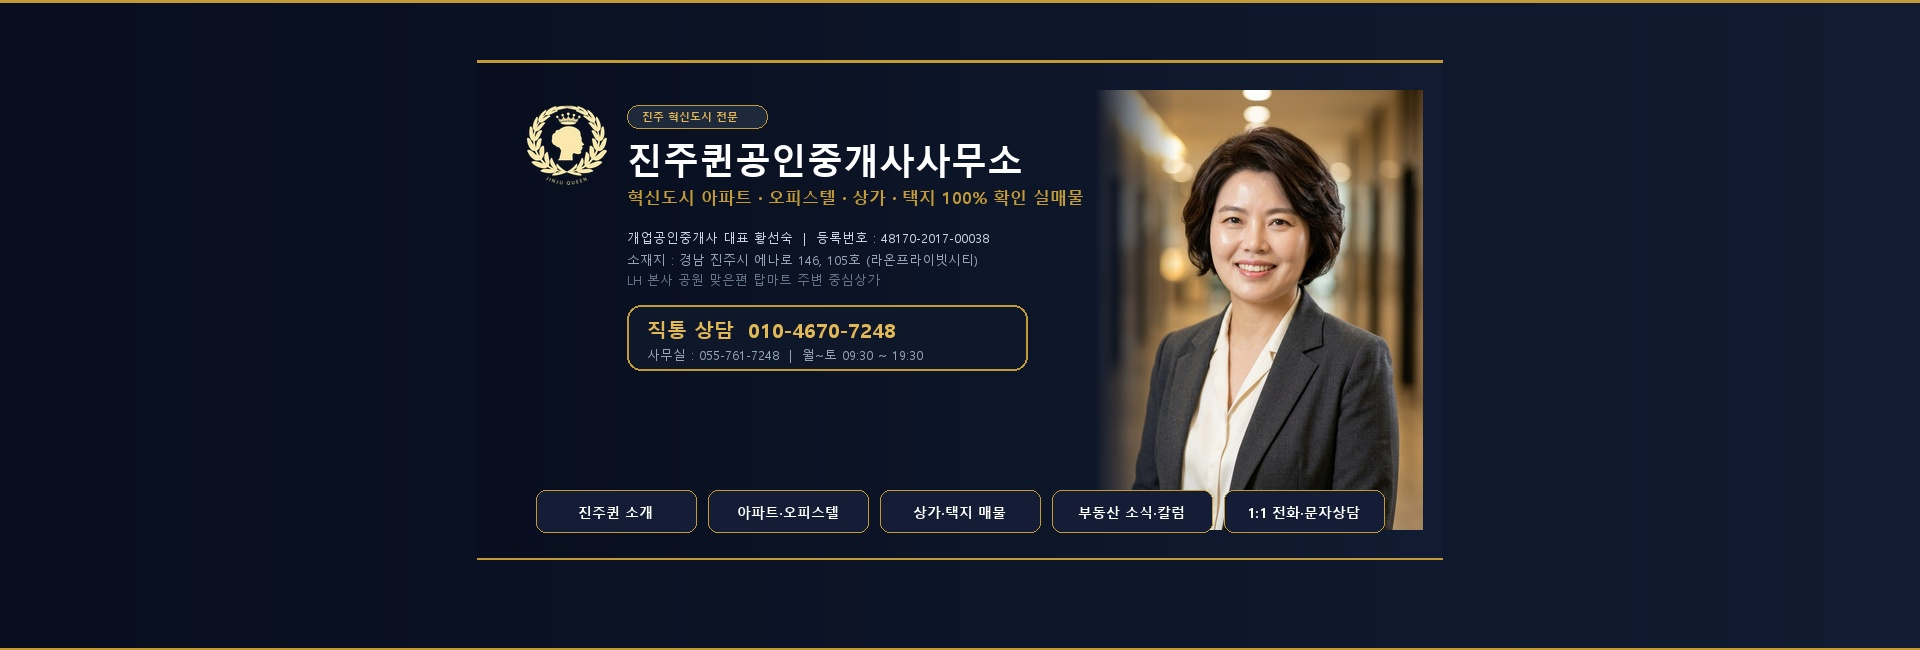
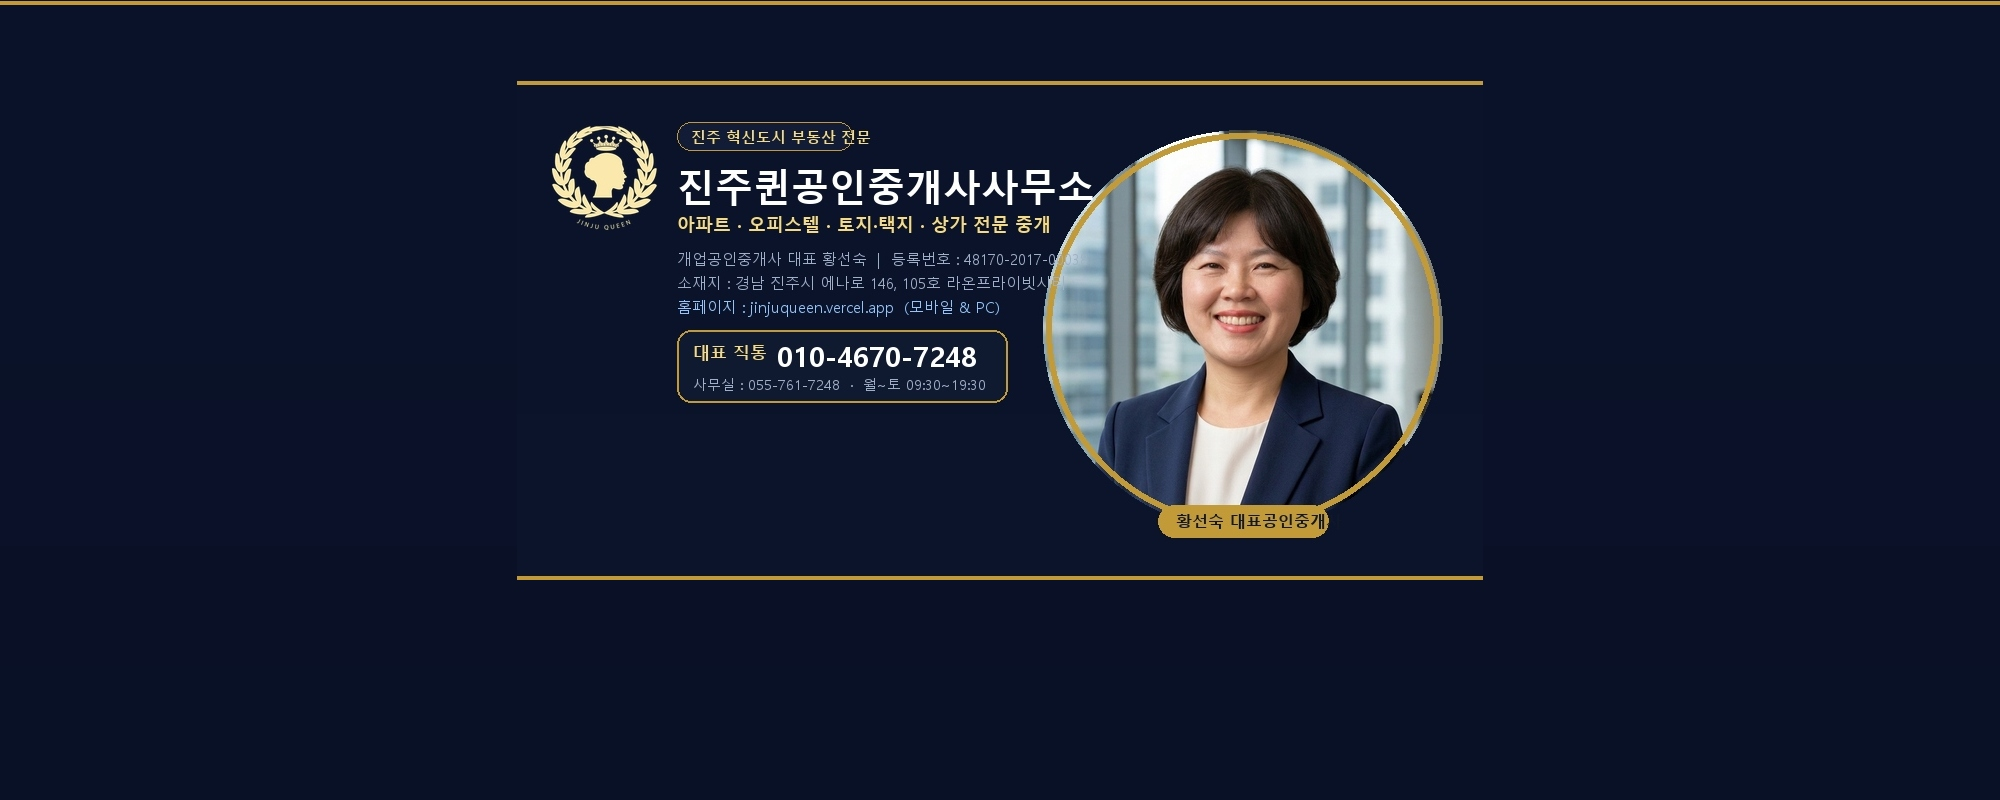
feat(media): 네이버 블로그 타이틀·와이드스킨 및 유튜브 채널아트 배너 최신 홈페이지 기준 일치 업데이트 & 모바일 블로그·유튜브 바로가기 완벽 탑재

diff --git a/mobile.html b/mobile.html
@@ -185,6 +185,24 @@
         통화연결 &rarr;
       </a>
     </div>
+
+    <!-- Official Media Channels (Naver Blog & YouTube) -->
+    <div class="grid grid-cols-2 gap-2 mt-2.5">
+      <a href="https://blog.naver.com/property70" target="_blank" rel="noopener noreferrer" class="bg-slate-800/90 hover:bg-slate-800 border border-emerald-500/40 rounded-xl px-3 py-2 flex items-center justify-between transition touch-press">
+        <div class="flex items-center gap-1.5">
+          <span class="w-4 h-4 rounded bg-emerald-600 text-white font-black text-[9px] flex items-center justify-center">N</span>
+          <span class="text-xs font-bold text-emerald-300">공식 네이버블로그</span>
+        </div>
+        <i data-lucide="chevron-right" class="w-3.5 h-3.5 text-slate-400"></i>
+      </a>
+      <a href="https://www.youtube.com/@jinju_queen" target="_blank" rel="noopener noreferrer" class="bg-slate-800/90 hover:bg-slate-800 border border-rose-500/40 rounded-xl px-3 py-2 flex items-center justify-between transition touch-press">
+        <div class="flex items-center gap-1.5">
+          <span class="w-4 h-4 rounded bg-rose-600 text-white font-bold text-[9px] flex items-center justify-center">▶</span>
+          <span class="text-xs font-bold text-rose-300">공식 유튜브채널</span>
+        </div>
+        <i data-lucide="chevron-right" class="w-3.5 h-3.5 text-slate-400"></i>
+      </a>
+    </div>
   </section>
 
   <!-- 4. Quick Category Filter Tabs (Horizontal Scroll) -->
@@ -257,10 +275,14 @@
         <span class="w-2 h-4 bg-emerald-600 rounded-full"></span>
         <h2 class="text-base font-black text-slate-900">부동산 분석 & 알림</h2>
       </div>
-      <a href="https://blog.naver.com/property70" target="_blank" rel="noopener noreferrer" class="text-[11px] font-bold text-emerald-700 flex items-center gap-0.5">
-        <span>블로그 방문</span>
-        <i data-lucide="external-link" class="w-3 h-3"></i>
-      </a>
+      <div class="flex items-center gap-1.5">
+        <a href="https://blog.naver.com/property70" target="_blank" rel="noopener noreferrer" class="text-[10px] font-bold text-emerald-700 bg-emerald-50 border border-emerald-200 px-2 py-0.5 rounded-md flex items-center gap-1">
+          <span class="w-1.5 h-1.5 rounded-full bg-emerald-500"></span> N 블로그
+        </a>
+        <a href="https://www.youtube.com/@jinju_queen" target="_blank" rel="noopener noreferrer" class="text-[10px] font-bold text-rose-700 bg-rose-50 border border-rose-200 px-2 py-0.5 rounded-md flex items-center gap-1">
+          <span class="w-1.5 h-1.5 rounded-full bg-rose-500"></span> ▶ 유튜브
+        </a>
+      </div>
     </div>
 
     <div id="mobileBoardList" class="space-y-2">
@@ -335,6 +357,15 @@
       <p><strong>등록번호 :</strong> 48170-2017-00038 | <strong>사업자등록 :</strong> 630-14-00632</p>
       <p><strong>소재지 :</strong> 경상남도 진주시 에나로 146, 105호 (라온프라이빗시티)</p>
       <p><strong>대표전화 :</strong> 055-761-7248 | <strong>직통 :</strong> 010-4670-7248</p>
+    </div>
+
+    <div class="pt-2 flex items-center gap-2">
+      <a href="https://blog.naver.com/property70" target="_blank" rel="noopener noreferrer" class="flex-1 py-1.5 px-2 bg-emerald-950/80 text-emerald-300 border border-emerald-800/80 rounded-lg text-center font-bold text-[10px] flex items-center justify-center gap-1">
+        <span class="w-1.5 h-1.5 rounded-full bg-emerald-400"></span> N 네이버 블로그
+      </a>
+      <a href="https://www.youtube.com/@jinju_queen" target="_blank" rel="noopener noreferrer" class="flex-1 py-1.5 px-2 bg-rose-950/80 text-rose-300 border border-rose-800/80 rounded-lg text-center font-bold text-[10px] flex items-center justify-center gap-1">
+        <span class="w-1.5 h-1.5 rounded-full bg-rose-500"></span> ▶ 유튜브 채널
+      </a>
     </div>
 
     <div class="pt-3 border-t border-slate-800 flex items-center justify-between text-[10px] text-slate-500">

diff --git a/update_blog_youtube_assets.py b/update_blog_youtube_assets.py
@@ -1,0 +1,269 @@
+import os
+from PIL import Image, ImageDraw, ImageFont
+
+ARTIFACT_DIR = r"C:\Users\User\.gemini\antigravity\brain\22ad999b-b105-4739-9ac9-9c3b7b7fc818"
+IMAGES_DIR = "images"
+
+FONT_BD = "C:/Windows/Fonts/malgunbd.ttf"
+FONT_REG = "C:/Windows/Fonts/malgun.ttf"
+
+# Colors
+NAVY_DEEP = (11, 19, 43)       # #0B132B
+NAVY_CARD = (18, 28, 54)
+GOLD_RICH = (194, 155, 56)      # #C29B38
+GOLD_LIGHT = (245, 218, 128)
+EMERALD = (13, 148, 136)        # #0D9488
+EMERALD_LIGHT = (209, 250, 229)
+WHITE = (255, 255, 255)
+SLATE_MUTED = (160, 175, 200)
+
+def generate_naver_blog_title():
+    """Naver Blog Title Banner (966 x 500) with updated branding & no forbidden phrases"""
+    bw, bh = 966, 500
+    banner = Image.new('RGB', (bw, bh), NAVY_DEEP)
+    draw = ImageDraw.Draw(banner)
+
+    # Ambient subtle gradient background
+    for y in range(bh):
+        blend = y / bh
+        r = int(NAVY_DEEP[0] * (1 - blend * 0.3) + 16 * (blend * 0.3))
+        g = int(NAVY_DEEP[1] * (1 - blend * 0.3) + 24 * (blend * 0.3))
+        b = int(NAVY_DEEP[2] * (1 - blend * 0.3) + 48 * (blend * 0.3))
+        draw.line([(0, y), (bw, y)], fill=(r, g, b))
+
+    # Top & bottom gold accent lines
+    draw.line([(0, 2), (bw, 2)], fill=GOLD_RICH, width=4)
+    draw.line([(0, bh - 3), (bw, bh - 3)], fill=GOLD_RICH, width=4)
+
+    # 1. Representative Portrait on the right
+    ceo_path = os.path.join(IMAGES_DIR, "ceo-square.jpg")
+    if os.path.exists(ceo_path):
+        ceo_im = Image.open(ceo_path).convert('RGB')
+        # Circular framed portrait with gold border
+        c_size = 400
+        ceo_resized = ceo_im.resize((c_size, c_size), Image.Resampling.LANCZOS)
+        
+        # Circle mask
+        mask = Image.new('L', (c_size, c_size), 0)
+        mdraw = ImageDraw.Draw(mask)
+        mdraw.ellipse((0, 0, c_size - 1, c_size - 1), fill=255)
+        
+        # Gold ring around avatar
+        ring_im = Image.new('RGBA', (c_size, c_size), (0, 0, 0, 0))
+        rdraw = ImageDraw.Draw(ring_im)
+        rdraw.ellipse((3, 3, c_size - 4, c_size - 4), outline=GOLD_RICH, width=6)
+        
+        cx = bw - c_size - 40
+        cy = (bh - c_size) // 2
+        banner.paste(ceo_resized, (cx, cy), mask)
+        banner.paste(ring_im, (cx, cy), ring_im)
+
+        # Name tag below portrait
+        f_name_tag = ImageFont.truetype(FONT_BD, 16)
+        tag_w = 170
+        tag_h = 32
+        tag_x = cx + (c_size - tag_w) // 2
+        tag_y = cy + c_size - 25
+        draw.rounded_rectangle([tag_x, tag_y, tag_x + tag_w, tag_y + tag_h], radius=16, fill=GOLD_RICH)
+        draw.text((tag_x + 18, tag_y + 4), "황선숙 대표공인중개사", font=f_name_tag, fill=(15, 23, 42))
+
+    # 2. Golden Logo on the left
+    logo_path = os.path.join(IMAGES_DIR, "logo.png")
+    if os.path.exists(logo_path):
+        logo_im = Image.open(logo_path).convert('RGBA')
+        logo_s = 105
+        logo_resized = logo_im.resize((logo_s, logo_s), Image.Resampling.LANCZOS)
+        banner.paste(logo_resized, (35, 45), logo_resized)
+
+    # 3. Typography & Information
+    f_badge = ImageFont.truetype(FONT_BD, 15)
+    f_title = ImageFont.truetype(FONT_BD, 38)
+    f_sub = ImageFont.truetype(FONT_BD, 18)
+    f_info = ImageFont.truetype(FONT_REG, 15)
+    f_phone_lbl = ImageFont.truetype(FONT_BD, 17)
+    f_phone_main = ImageFont.truetype(FONT_BD, 28)
+    f_phone_sub = ImageFont.truetype(FONT_REG, 14)
+
+    tx = 160
+    ty = 42
+
+    # Top Pill Badge
+    draw.rounded_rectangle([tx, ty, tx + 175, ty + 28], radius=14, fill=NAVY_CARD, outline=GOLD_RICH, width=1)
+    draw.text((tx + 14, ty + 4), "진주 혁신도시 부동산 전문", font=f_badge, fill=GOLD_LIGHT)
+
+    # Title
+    ty += 38
+    draw.text((tx, ty), "진주퀸공인중개사사무소", font=f_title, fill=WHITE)
+
+    # Subtitle (strictly compliant, NO '확인 실매물')
+    ty += 52
+    draw.text((tx, ty), "아파트 · 오피스텔 · 토지·택지 · 상가 전문 중개", font=f_sub, fill=GOLD_LIGHT)
+
+    # Office Info
+    ty += 36
+    draw.text((tx, ty), "개업공인중개사 대표 황선숙  |  등록번호 : 48170-2017-00038", font=f_info, fill=SLATE_MUTED)
+    ty += 24
+    draw.text((tx, ty), "소재지 : 경남 진주시 에나로 146, 105호 라온프라이빗시티", font=f_info, fill=SLATE_MUTED)
+    ty += 24
+    draw.text((tx, ty), "홈페이지 : jinjuqueen.vercel.app  (모바일 & PC)", font=f_info, fill=(147, 197, 253))
+
+    # Contact Cards Box
+    ty += 34
+    draw.rounded_rectangle([tx, ty, tx + 330, ty + 72], radius=14, fill=(15, 25, 48), outline=GOLD_RICH, width=2)
+    draw.text((tx + 16, ty + 10), "대표 직통", font=f_phone_lbl, fill=GOLD_LIGHT)
+    draw.text((tx + 100, ty + 6), "010-4670-7248", font=f_phone_main, fill=WHITE)
+    draw.text((tx + 16, ty + 44), "사무실 : 055-761-7248  ·  월~토 09:30~19:30", font=f_phone_sub, fill=SLATE_MUTED)
+
+    out_file = os.path.join(IMAGES_DIR, "naver-blog-title-966.jpg")
+    banner.save(out_file, "JPEG", quality=98)
+    banner.save(os.path.join(ARTIFACT_DIR, "naver-blog-title-966.jpg"), "JPEG", quality=98)
+    print("Naver Blog Title Banner generated:", out_file)
+
+
+def generate_youtube_banner():
+    """YouTube Channel Art (2560 x 1440) matching website baseline & YouTube dark theme"""
+    W, H = 2560, 1440
+    safe_w, safe_h = 1546, 423
+    safe_x1 = (W - safe_w) // 2   # 507
+    safe_y1 = (H - safe_h) // 2   # 508
+    safe_x2 = safe_x1 + safe_w    # 2053
+    safe_y2 = safe_y1 + safe_h    # 931
+
+    YT_BG = (15, 15, 15)
+    img = Image.new('RGB', (W, H), YT_BG)
+    draw = ImageDraw.Draw(img)
+
+    # Ambient deep navy / gold glow in the center safe zone
+    overlay = Image.new('RGBA', (W, H), (0, 0, 0, 0))
+    odraw = ImageDraw.Draw(overlay)
+    for x in range(safe_x1 - 150, safe_x2 + 150):
+        rel = (x - safe_x1) / safe_w
+        factor = 1.0 - abs(rel - 0.5) * 1.8
+        factor = max(0.0, min(1.0, factor))
+        alpha = int(75 * factor)
+        odraw.line([(x, safe_y1 - 60), (x, safe_y2 + 60)], fill=(11, 23, 50, alpha))
+
+    img = Image.alpha_composite(img.convert('RGBA'), overlay).convert('RGB')
+    draw = ImageDraw.Draw(img)
+
+    # Top & bottom gold hairline borders inside safe zone
+    draw.line([(safe_x1 + 40, safe_y1 + 10), (safe_x2 - 40, safe_y1 + 10)], fill=GOLD_RICH, width=2)
+    draw.line([(safe_x1 + 40, safe_y2 - 10), (safe_x2 - 40, safe_y2 - 10)], fill=GOLD_RICH, width=2)
+
+    # 1. Left side: Golden Logo
+    logo_path = os.path.join(IMAGES_DIR, "logo.png")
+    logo_size = 220
+    logo_x = safe_x1 + 80
+    logo_y = safe_y1 + (safe_h - logo_size) // 2
+    if os.path.exists(logo_path):
+        logo_im = Image.open(logo_path).convert('RGBA')
+        logo_r = logo_im.resize((logo_size, logo_size), Image.Resampling.LANCZOS)
+        img.paste(logo_r, (logo_x, logo_y), logo_r)
+
+    # 2. Right side: Representative Portrait inside stylish circle
+    ceo_path = os.path.join(IMAGES_DIR, "ceo-square.jpg")
+    c_size = 280
+    cx = safe_x2 - c_size - 80
+    cy = safe_y1 + (safe_h - c_size) // 2
+    if os.path.exists(ceo_path):
+        ceo_im = Image.open(ceo_path).convert('RGB')
+        ceo_r = ceo_im.resize((c_size, c_size), Image.Resampling.LANCZOS)
+        mask = Image.new('L', (c_size, c_size), 0)
+        mdraw = ImageDraw.Draw(mask)
+        mdraw.ellipse((0, 0, c_size - 1, c_size - 1), fill=255)
+        
+        ring = Image.new('RGBA', (c_size, c_size), (0, 0, 0, 0))
+        rdraw = ImageDraw.Draw(ring)
+        rdraw.ellipse((3, 3, c_size - 4, c_size - 4), outline=GOLD_RICH, width=5)
+        
+        img.paste(ceo_r, (cx, cy), mask)
+        img.paste(ring, (cx, cy), ring)
+
+        # Name tag below
+        f_tag = ImageFont.truetype(FONT_BD, 18)
+        tag_w = 170
+        tag_h = 32
+        tag_x = cx + (c_size - tag_w) // 2
+        tag_y = cy + c_size - 16
+        draw.rounded_rectangle([tag_x, tag_y, tag_x + tag_w, tag_y + tag_h], radius=16, fill=GOLD_RICH)
+        draw.text((tag_x + 18, tag_y + 4), "황선숙 대표공인중개사", font=f_tag, fill=(15, 23, 42))
+
+    # 3. Center Content
+    content_x = logo_x + logo_size + 60
+    f_title = ImageFont.truetype(FONT_BD, 68)
+    f_sub = ImageFont.truetype(FONT_BD, 28)
+    f_info = ImageFont.truetype(FONT_REG, 20)
+    f_btn_lbl = ImageFont.truetype(FONT_BD, 22)
+    f_btn_num = ImageFont.truetype(FONT_BD, 34)
+
+    # Main Channel Title
+    title_y = safe_y1 + 45
+    draw.text((content_x, title_y), "진주퀸공인중개사", font=f_title, fill=WHITE)
+    
+    # Subtitle
+    sub_y = title_y + 88
+    draw.text((content_x, sub_y), "진주 혁신도시 아파트 · 상가 · 오피스텔 · 토지 전문", font=f_sub, fill=GOLD_LIGHT)
+
+    # Info Line
+    info_y = sub_y + 45
+    draw.text((content_x, info_y), "충무공동 라온프라이빗시티 105호  |  홈페이지 : jinjuqueen.vercel.app", font=f_info, fill=SLATE_MUTED)
+
+    # Two Call-To-Action Pills
+    btn_y = info_y + 42
+    
+    # Pill 1: Mobile Direct (010-4670-7248) - Gold Gradient Look
+    p1_w = 360
+    p1_h = 68
+    draw.rounded_rectangle([content_x, btn_y, content_x + p1_w, btn_y + p1_h], radius=34, fill=(35, 45, 68), outline=GOLD_RICH, width=2)
+    draw.rounded_rectangle([content_x + 6, btn_y + 6, content_x + 105, btn_y + p1_h - 6], radius=28, fill=GOLD_RICH)
+    draw.text((content_x + 18, btn_y + 18), "대표 직통", font=f_btn_lbl, fill=(15, 23, 42))
+    draw.text((content_x + 120, btn_y + 12), "010-4670-7248", font=f_btn_num, fill=WHITE)
+
+    # Pill 2: Landline (055-761-7248) - Blue/Slate
+    p2_x = content_x + p1_w + 20
+    p2_w = 320
+    draw.rounded_rectangle([p2_x, btn_y, p2_x + p2_w, btn_y + p1_h], radius=34, fill=(22, 32, 50), outline=(70, 90, 130), width=2)
+    draw.rounded_rectangle([p2_x + 6, btn_y + 6, p2_x + 95, btn_y + p1_h - 6], radius=28, fill=(45, 60, 90))
+    draw.text((p2_x + 20, btn_y + 18), "사무실", font=f_btn_lbl, fill=(210, 225, 245))
+    draw.text((p2_x + 110, btn_y + 12), "055-761-7248", font=f_btn_num, fill=WHITE)
+
+    out_file = os.path.join(IMAGES_DIR, "youtube-channel-banner-2560.jpg")
+    img.save(out_file, "JPEG", quality=98)
+    img.save(os.path.join(ARTIFACT_DIR, "youtube-channel-banner-2560.jpg"), "JPEG", quality=98)
+    print("YouTube Channel Banner generated:", out_file)
+
+
+def generate_naver_blog_skin():
+    """Naver Blog Wide Top Skin (2000 x 800)"""
+    sw, sh = 2000, 800
+    skin = Image.new('RGB', (sw, sh), NAVY_DEEP)
+    draw = ImageDraw.Draw(skin)
+
+    # Luxury subtle gradient & ambient lighting
+    for y in range(sh):
+        blend = y / sh
+        r = int(NAVY_DEEP[0] * (1 - blend * 0.4) + 8 * (blend * 0.4))
+        g = int(NAVY_DEEP[1] * (1 - blend * 0.4) + 14 * (blend * 0.4))
+        b = int(NAVY_DEEP[2] * (1 - blend * 0.4) + 32 * (blend * 0.4))
+        draw.line([(0, y), (sw, y)], fill=(r, g, b))
+
+    # Top gold accent
+    draw.line([(0, 2), (sw, 2)], fill=GOLD_RICH, width=4)
+
+    # Center placement of blog title banner
+    title_path = os.path.join(IMAGES_DIR, "naver-blog-title-966.jpg")
+    if os.path.exists(title_path):
+        t_im = Image.open(title_path)
+        tx = (sw - t_im.width) // 2
+        ty = 80
+        skin.paste(t_im, (tx, ty))
+
+    out_file = os.path.join(IMAGES_DIR, "naver-blog-skin.jpg")
+    skin.save(out_file, "JPEG", quality=98)
+    skin.save(os.path.join(ARTIFACT_DIR, "naver-blog-skin.jpg"), "JPEG", quality=98)
+    print("Naver Blog Wide Skin generated:", out_file)
+
+if __name__ == '__main__':
+    generate_naver_blog_title()
+    generate_youtube_banner()
+    generate_naver_blog_skin()
